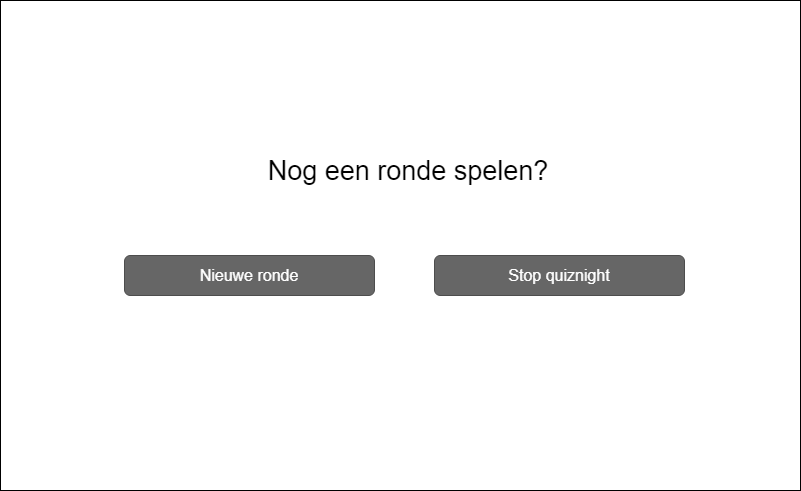
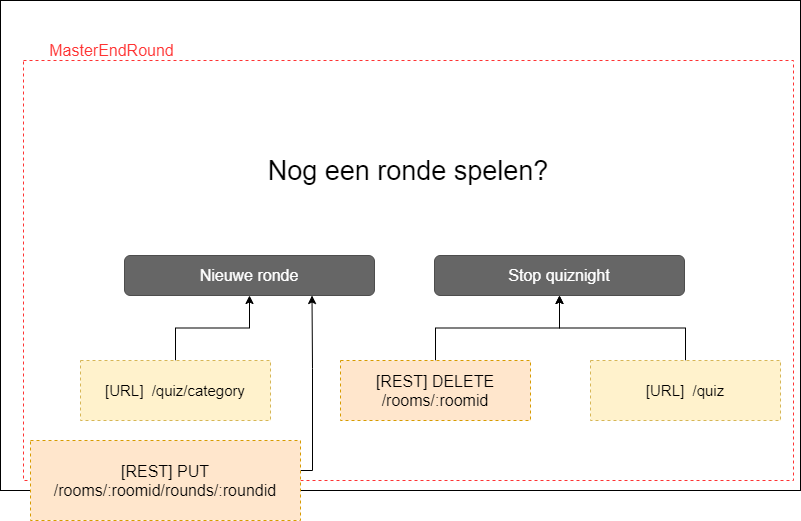
update wireframes with rest endpoints

diff --git a/Software Guidebook/README.md b/Software Guidebook/README.md
@@ -1,38 +1,64 @@
+# Software Guidebook - Quizzer
+
+## Contents
+1. [Introduction](#Introduction)
+2. [Wireframes](#Wireframes)
+3. [REST](#REST)
+4. [Database](#Database)
+
+## Introduction
+The quizzer is a web application that runs on 3 different devices, the master-tablet app, the teams-phone app and the tv-screen/beamer Scoreboard app.
+
+
+## REST
+## Database
+
+## Wireframes
+### Master - startscreen
 [wireframe-masterstart]: https://raw.githubusercontent.com/HANICA-DWA/sep2020-quizz-patrick-sanne/main/Software%20Guidebook/wireframes/wireframes-Master%20(start).png?token=AB2NNDMT7L54F2QW66YOEXK7RVJIS "wireframe1-start"
+![][wireframe-masterstart]
 
+### Master - accept teams
 [wireframe-masterapplication]: https://raw.githubusercontent.com/HANICA-DWA/sep2020-quizz-patrick-sanne/main/Software%20Guidebook/wireframes/wireframes-Master%20(applications).png?token=AB2NNDPDSPDHOHXB2H6CWU27RVJVU "wireframe-masterapplication"
+![][wireframe-masterapplication]
 
-[wireframe-teamregister]: https://raw.githubusercontent.com/HANICA-DWA/sep2020-quizz-patrick-sanne/main/Software%20Guidebook/wireframes/wireframes-Team%20(register).png?token=AB2NNDM67CXDQL3NDRRD54C7RVJW4 "wireframe-teamregister"
+### Team - Room code insert
+[wireframe-teamcode]: https://raw.githubusercontent.com/HANICA-DWA/sep2020-quizz-patrick-sanne/7d6449fca67543982acedc8c753342c1279d5370/Software%20Guidebook/wireframes/wireframes-Team%20(roomcode).png?token=AB2NNDP2ZPZ3PYOTQNGZ5AK7RVNJW "wireframe-teamcode"
+![][wireframe-teamcode]
 
+### Master - Choose categories
 [wireframe-mastercategory]: https://raw.githubusercontent.com/HANICA-DWA/sep2020-quizz-patrick-sanne/main/Software%20Guidebook/wireframes/wireframes-Master%20(category%20select).png?token=AB2NNDP2XQ6HR6DMABJ2EEC7RVJ4U "wireframe-mastercategory"
+![][wireframe-mastercategory]
 
+### Master - choose questions
 [wireframe-masterquestion]:https://raw.githubusercontent.com/HANICA-DWA/sep2020-quizz-patrick-sanne/main/Software%20Guidebook/wireframes/wireframes-Master%20(question%20select).png?token=AB2NNDITVXEYNV6SVMGAKJK7RVKAK  "wireframe-masterquestion"
+![][wireframe-masterquestion]
 
+### Master - send question to teams
 [wireframe-masterchoosequestion]: https://raw.githubusercontent.com/HANICA-DWA/sep2020-quizz-patrick-sanne/main/Software%20Guidebook/wireframes/wireframes-Master%20(choose%20question).png?token=AB2NNDKNHJDVQGUWSLLKCA27RVJ56 "masterchoosequestion"
+![][wireframe-masterchoosequestion]
 
+### Team - Answer question
 [wireframe-teamquestion]: https://raw.githubusercontent.com/HANICA-DWA/sep2020-quizz-patrick-sanne/main/Software%20Guidebook/wireframes/wireframes-Team%20(question).png?token=AB2NNDMWPQLVG4GWNJEFVV27RVKBA "teamquestion"
 
-[wireframe-scoreboardquestion]: https://raw.githubusercontent.com/HANICA-DWA/sep2020-quizz-patrick-sanne/main/Software%20Guidebook/wireframes/wireframes-Scoreboard%20(questions).png?token=AB2NNDMMBQMWNXQGWDZK3BK7RVKCE "scoreboardquestion"
-
-[wireframe-masterreview]: https://raw.githubusercontent.com/HANICA-DWA/sep2020-quizz-patrick-sanne/main/Software%20Guidebook/wireframes/wireframes-Master%20(review%20answers).png?token=AB2NNDPDPJHJFIAEKIATVQC7RVKRU "masterreview"
-
-[wireframe-scoreboardanswers]: https://raw.githubusercontent.com/HANICA-DWA/sep2020-quizz-patrick-sanne/main/Software%20Guidebook/wireframes/wireframes-Scoreboard%20(answers).png?token=AB2NNDIJVV7EQ6U6DP5OW2C7RVKDS "scoreboardanswers"
-
-
-[wireframe-scoreboardscores]: https://raw.githubusercontent.com/HANICA-DWA/sep2020-quizz-patrick-sanne/main/Software%20Guidebook/wireframes/wireframes-Scoreboard%20(scores).png?token=AB2NNDKAMWDUPTFTJ3J64KC7RVKEW "scoreboardscores"
-
-[wireframe-masternewround]: https://raw.githubusercontent.com/HANICA-DWA/sep2020-quizz-patrick-sanne/main/Software%20Guidebook/wireframes/wireframes-Master%20(new%20round).png?token=AB2NNDIDYCWB3XMKBAIGUGS7RVKF2 "masternewround"
-
-
-![][wireframe-masterstart]
-![][wireframe-masterapplication]
-![][wireframe-teamregister]
-![][wireframe-mastercategory]
-![][wireframe-masterquestion]
-![][wireframe-masterchoosequestion]
 ![][wireframe-teamquestion]
+
+### Scoreboard - Questions answered
+[wireframe-scoreboardquestion]: https://raw.githubusercontent.com/HANICA-DWA/sep2020-quizz-patrick-sanne/main/Software%20Guidebook/wireframes/wireframes-Scoreboard%20(questions).png?token=AB2NNDMMBQMWNXQGWDZK3BK7RVKCE "scoreboardquestion"
 ![][wireframe-scoreboardquestion]
+
+### Master - Review questions
+[wireframe-masterreview]: https://raw.githubusercontent.com/HANICA-DWA/sep2020-quizz-patrick-sanne/main/Software%20Guidebook/wireframes/wireframes-Master%20(review%20answers).png?token=AB2NNDPDPJHJFIAEKIATVQC7RVKRU "masterreview"
 ![][wireframe-masterreview]
+
+### Scoreboard - Answers accepted/denied
+[wireframe-scoreboardanswers]: https://raw.githubusercontent.com/HANICA-DWA/sep2020-quizz-patrick-sanne/main/Software%20Guidebook/wireframes/wireframes-Scoreboard%20(answers).png?token=AB2NNDIJVV7EQ6U6DP5OW2C7RVKDS "scoreboardanswers"
 ![][wireframe-scoreboardanswers]
+
+### Scoreboard - Round scores
+[wireframe-scoreboardscores]: https://raw.githubusercontent.com/HANICA-DWA/sep2020-quizz-patrick-sanne/main/Software%20Guidebook/wireframes/wireframes-Scoreboard%20(scores).png?token=AB2NNDKAMWDUPTFTJ3J64KC7RVKEW "scoreboardscores"
 ![][wireframe-scoreboardscores]
+
+### Master - New round
+[wireframe-masternewround]: https://raw.githubusercontent.com/HANICA-DWA/sep2020-quizz-patrick-sanne/main/Software%20Guidebook/wireframes/wireframes-Master%20(new%20round).png?token=AB2NNDIDYCWB3XMKBAIGUGS7RVKF2 "masternewround"
 ![][wireframe-masternewround]
